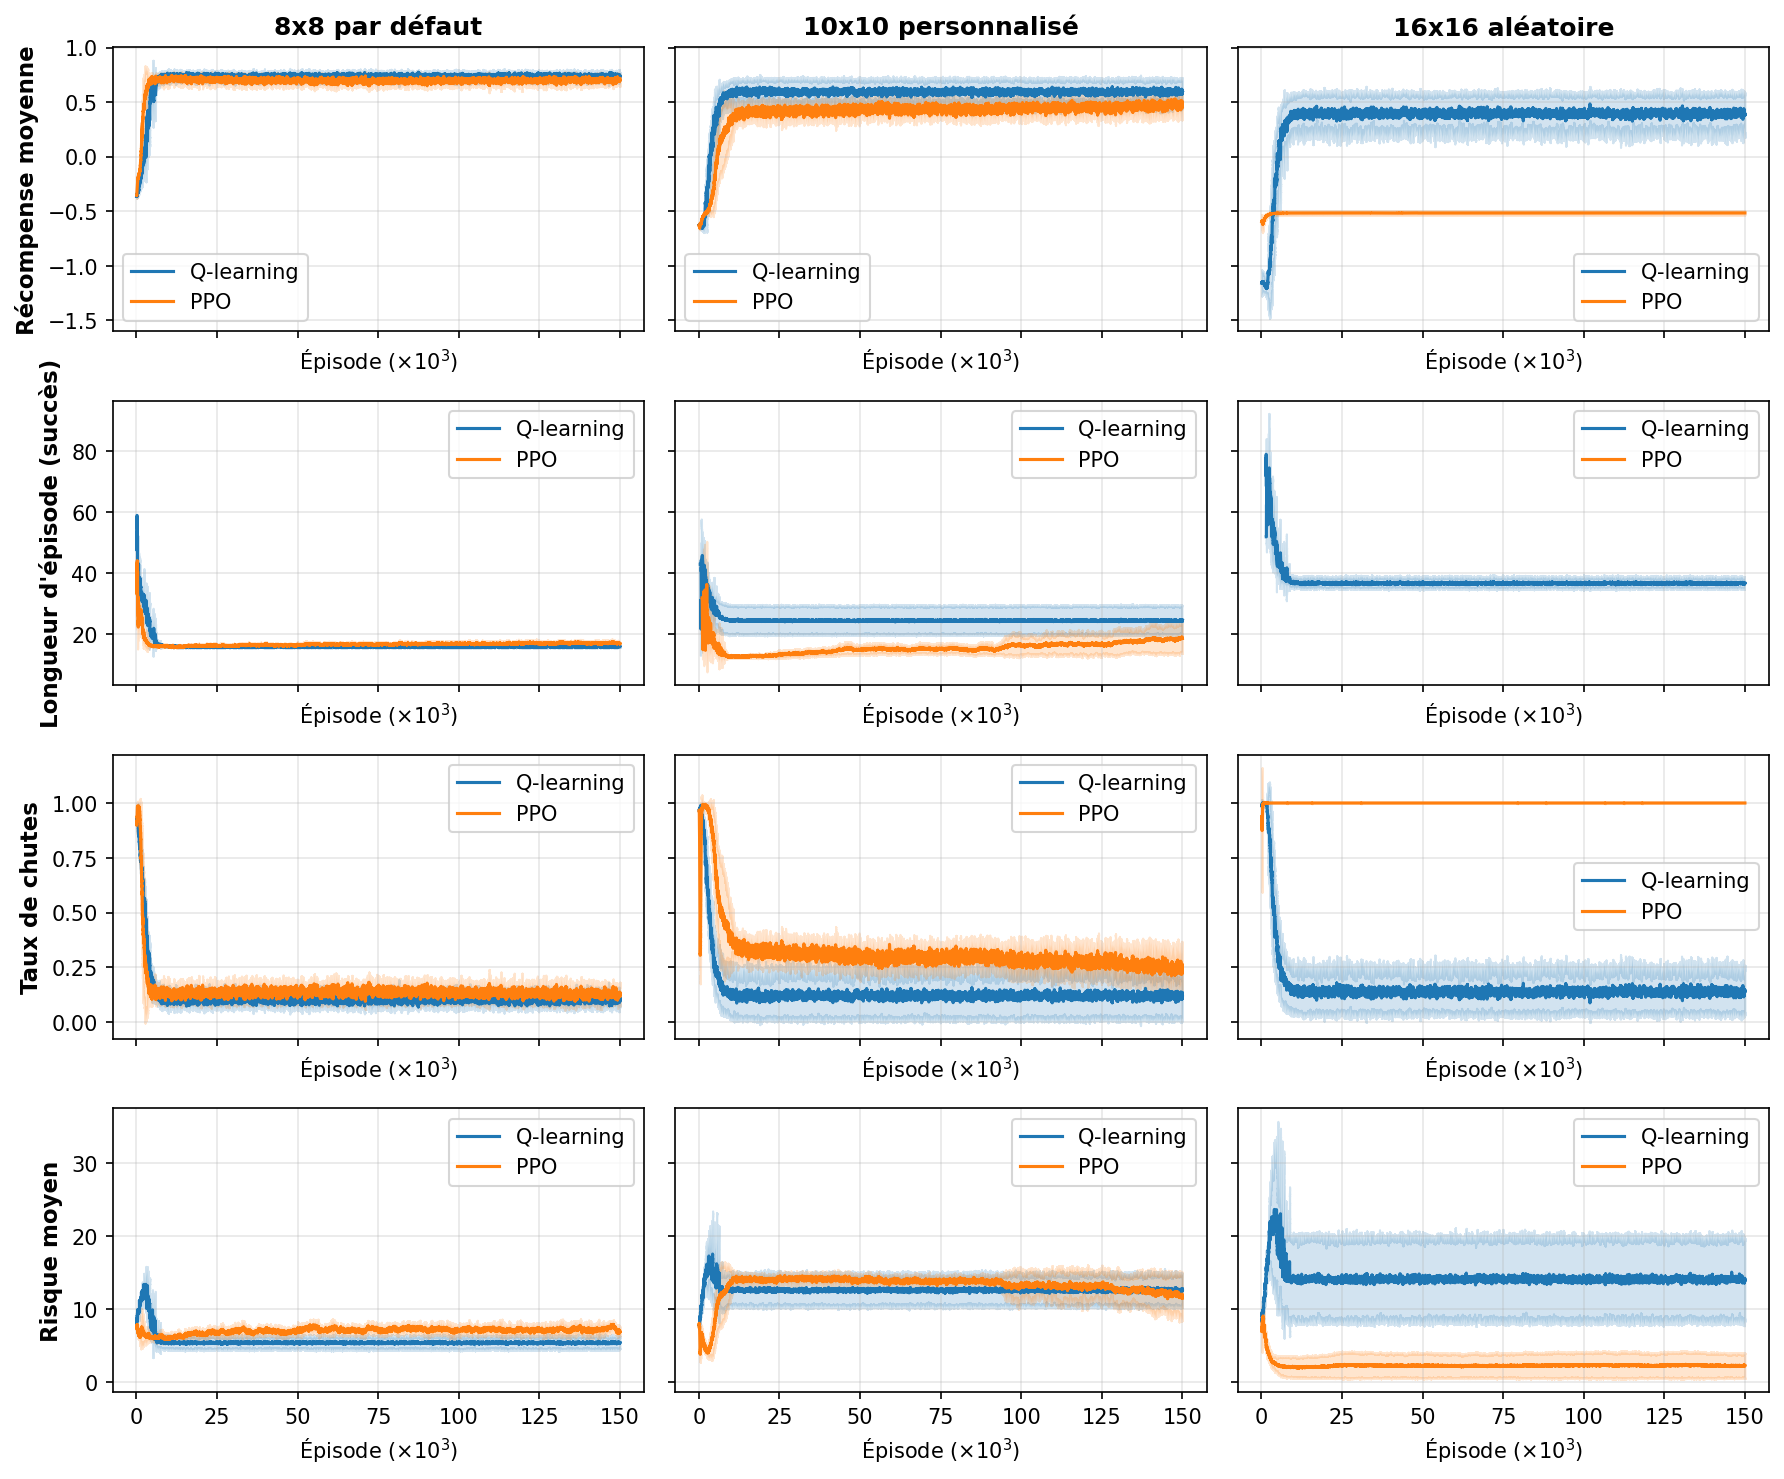
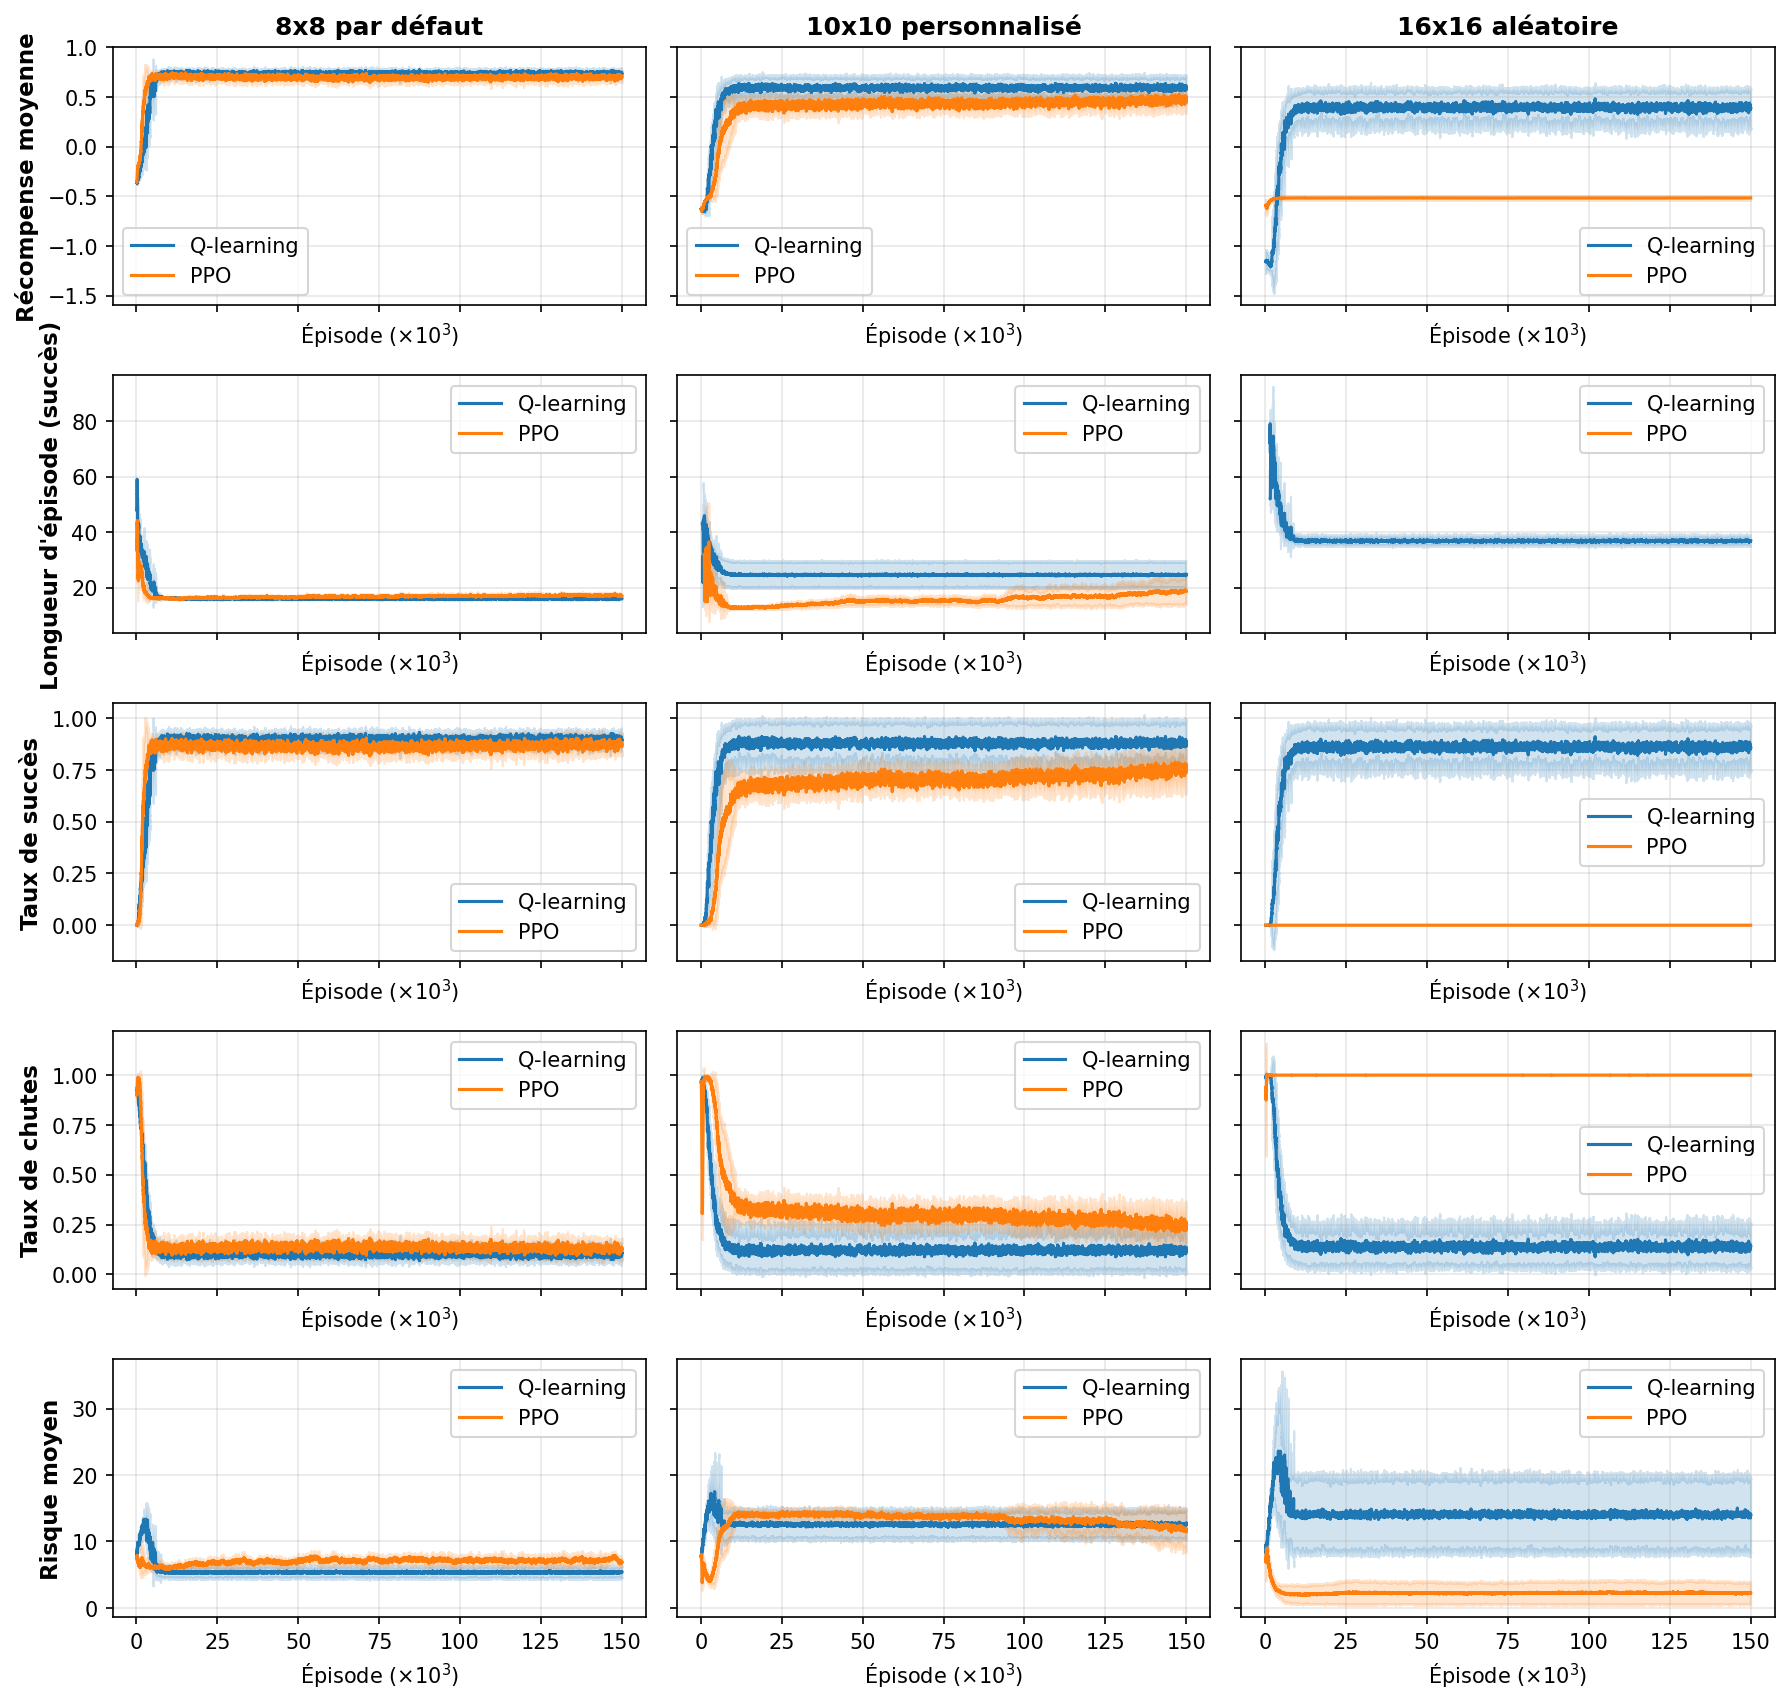
add success rate to train plots

Changed region(s): [[0.0, 0.0, 1.0, 0.9953], [0.4624, 0.5598, 0.5858, 0.5909], [0.9865, 0.3421, 1.0, 0.3732]]

diff --git a/generate_train_plots.py b/generate_train_plots.py
@@ -49,8 +49,9 @@ ENVS_CONNUS = {
 #   - use_x_raw          : True -> utiliser x_raw sans lissage (ex: cum_falls)
 #                          False -> utiliser x_ma avec moyenne mobile
 METRIQUES = [
-    ("Récompense moyenne",         "reward_mean",               "episode_rewards",              False),
+    ("Récompense moyenne",         "reward_mean",               "episode_rewards",               False),
     ("Longueur d'épisode (succès)","length_given_success_mean", "episode_lengths_given_success", False),
+    ("Taux de succès",             "success_rate",              "episode_successes",             False),
     ("Taux de chutes",             "fall_rate",                 "episode_falls",                 False),
     ("Risque moyen",               "risk_mean",                 "episode_risks",                 False),
 ]
